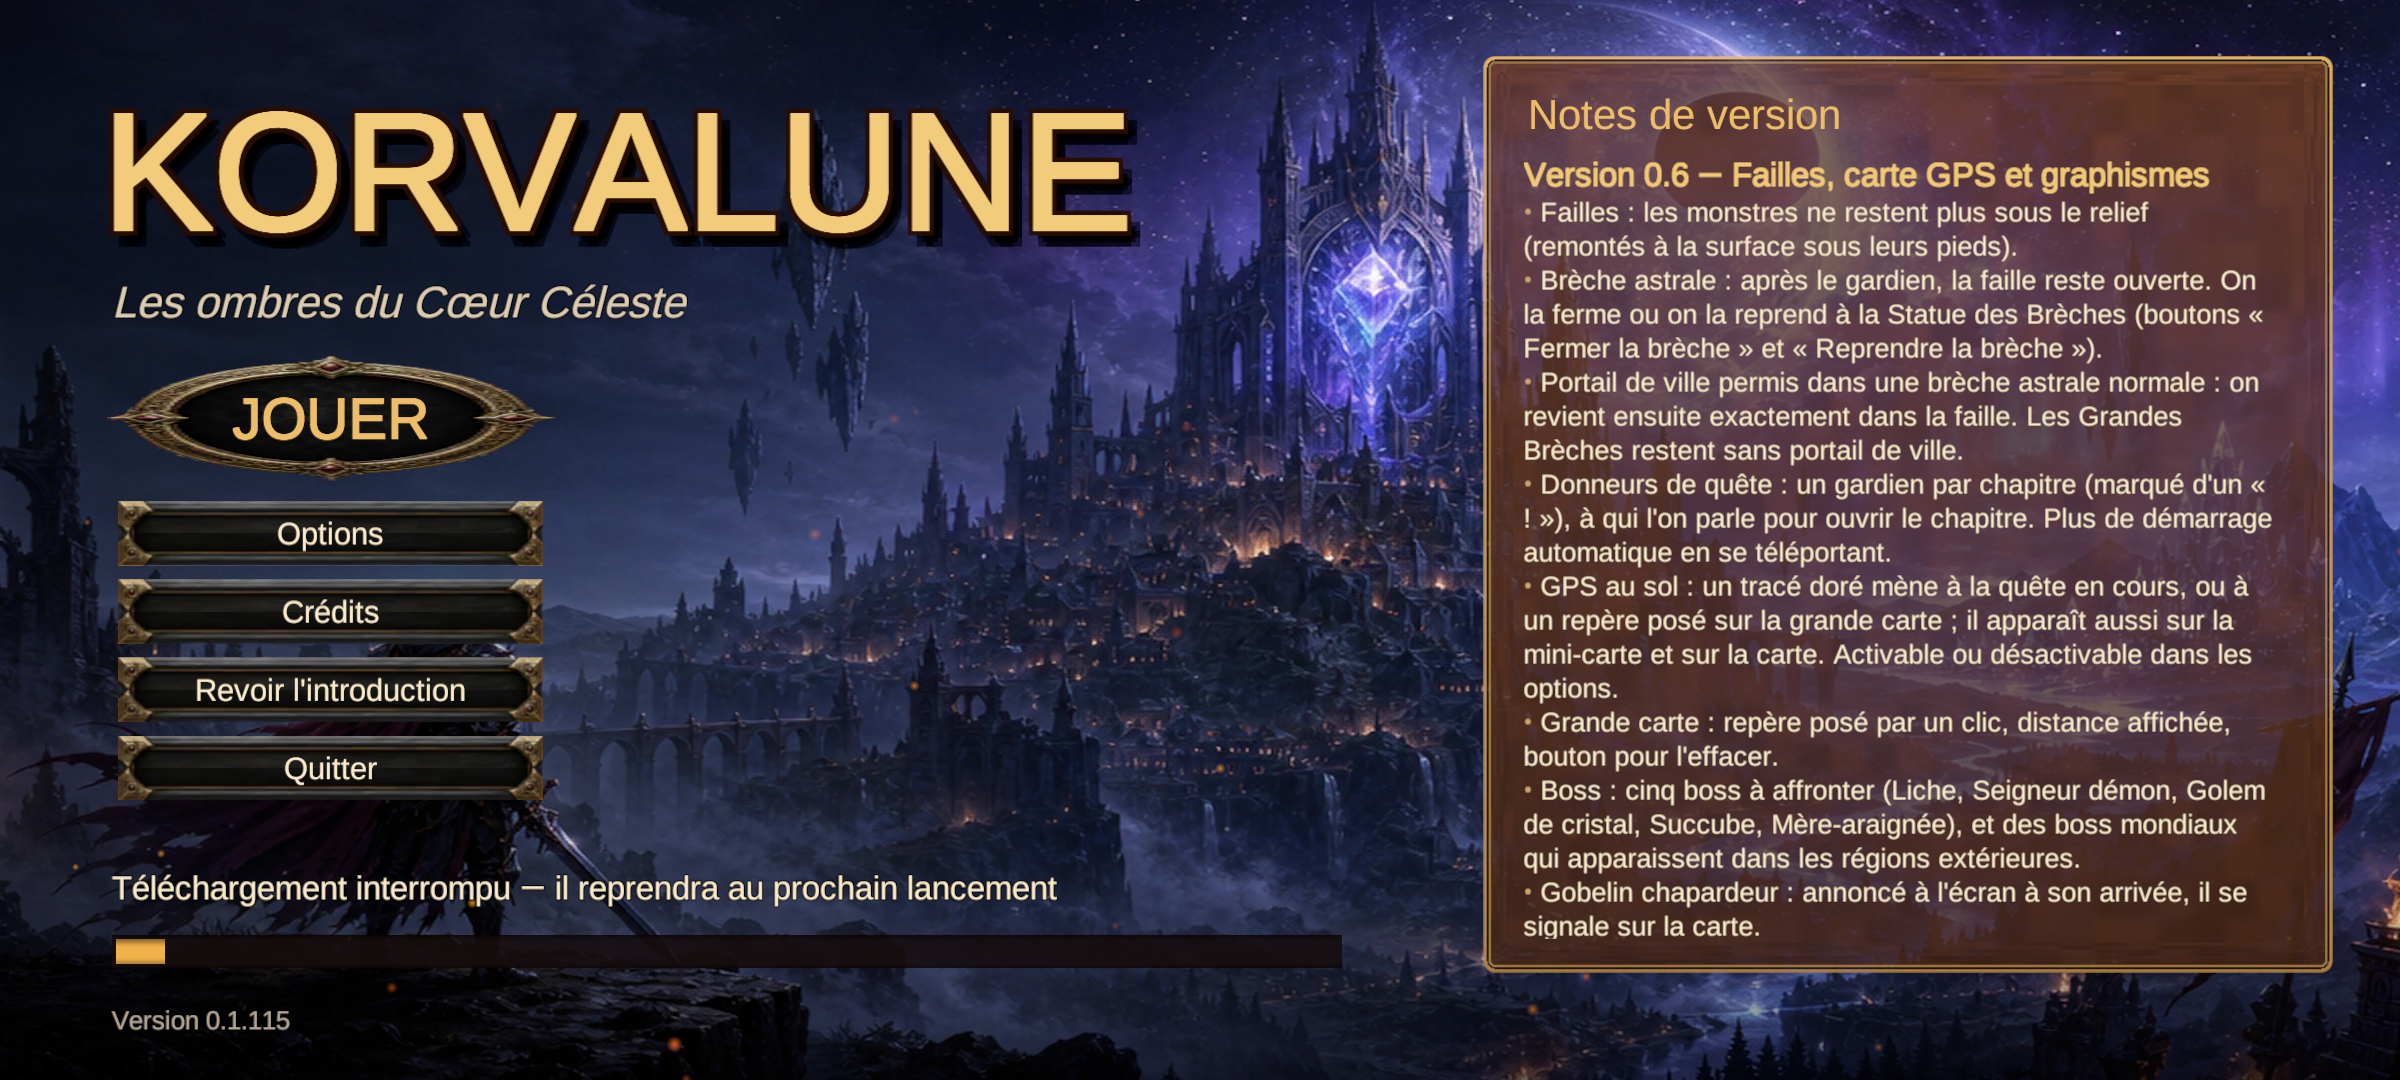
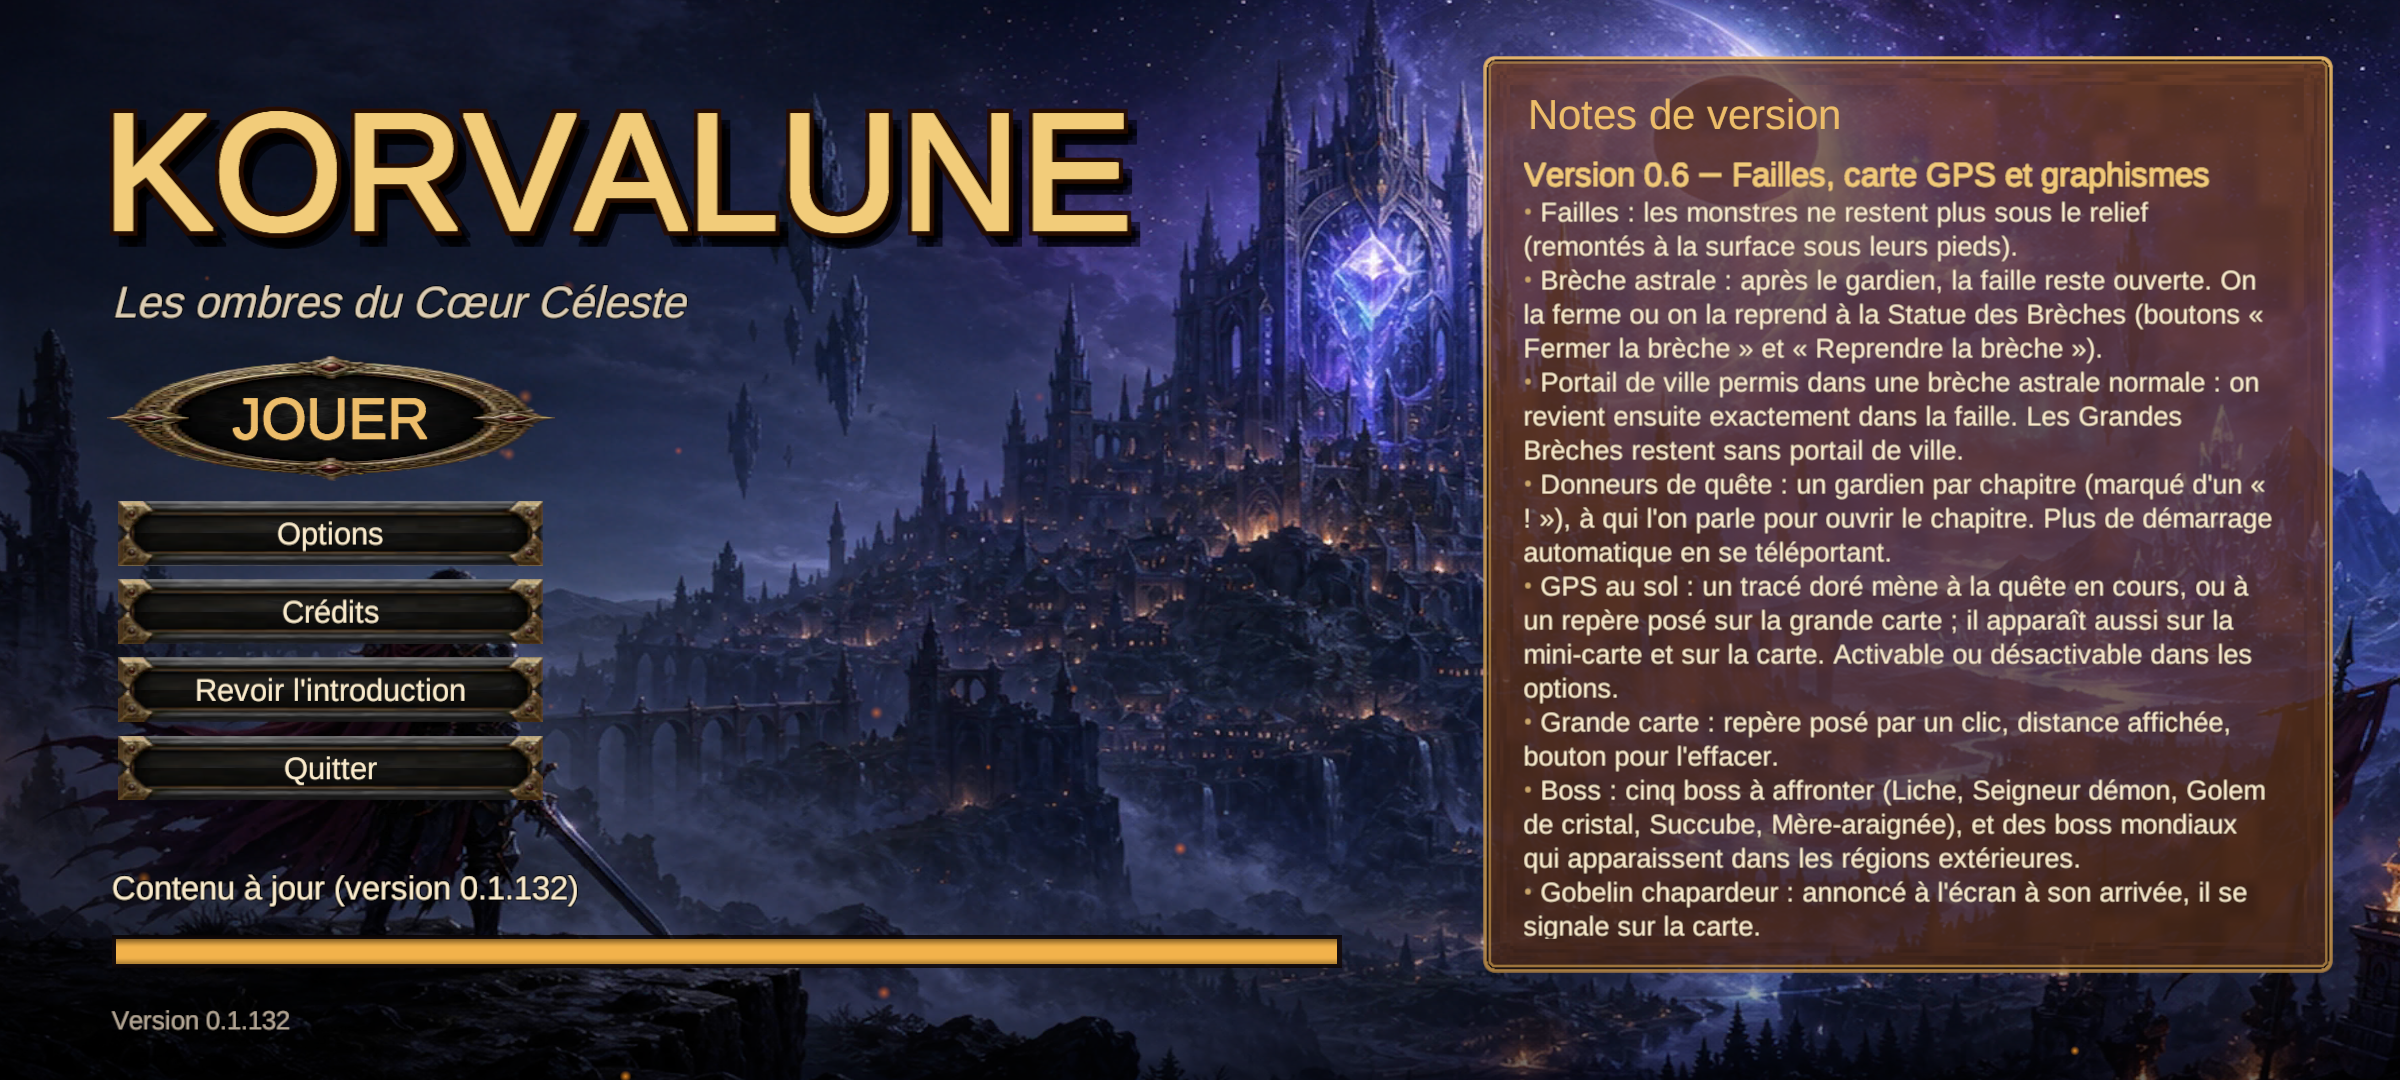
Android : APK construit et testé dans l'émulateur [skip ci]

diff --git a/ci-out/android/build.md b/ci-out/android/build.md
@@ -1,10 +1,10 @@
 # Construction de l'APK Android
 
-- Scènes : Korvalune_Lanceur, Korvalune_Selection, CharacterCreator, Korvalune_Vallee, Korvalune_Crypte, Korvalune_Terriers, Korvalune_Eclipse, Korvalune_Breche, Korvalune_Foret, Korvalune_Desert, Korvalune_Pics, Korvalune_Cote, Korvalune_Marais, Korvalune_Toundra, Korvalune_Volcan, Korvalune_Canyon, Korvalune_Abime
+- Scènes : Korvalune_Lanceur, Korvalune_Selection, CharacterCreator, Korvalune_Vallee, Korvalune_Crypte, Korvalune_Terriers, Korvalune_Eclipse, Korvalune_Breche, Korvalune_Foret, Korvalune_Desert, Korvalune_Pics, Korvalune_Cote, Korvalune_Marais, Korvalune_Toundra, Korvalune_Volcan, Korvalune_Canyon, Korvalune_Abime, Korvalune_Catacombes
 - Signature : clé Korvalune (mises à jour sans désinstaller)
 - Icône : Assets/Korvalune/Resources/UI/Icone.png
-- Contenu téléchargeable : 100 paquets, 722 Mo (release contenu-115)
-    - scenes : 146.4 Mo
+- Contenu téléchargeable : 100 paquets, 732 Mo (release contenu-132)
+    - scenes : 156.0 Mo
     - art_catalog_models : 58.3 Mo
     - art_catalog_skins : 34.6 Mo
     - art_heroes_varek_f : 19.0 Mo
@@ -16,23 +16,23 @@
     - art_heroes_kaeldraven_f : 17.2 Mo
     - art_heroes_kaeldraven_m : 16.7 Mo
     - art_heroes_tharion_f : 16.7 Mo
-- HybridCLR : génération en 1.7 min
-- Code mis à jour depuis le jeu : Korvalune.Runtime 672 Ko + 7 métadonnées (9.0 Mo), APK minimal 0
-- Résultat : **Succeeded** en 20.2 min, 0 erreur(s), 12 avertissement(s)
-- APK : 129.1 Mo, version 0.1.115
+- HybridCLR : génération en 2.1 min
+- Code mis à jour depuis le jeu : Korvalune.Runtime 677 Ko + 7 métadonnées (9.0 Mo), APK minimal 0
+- Résultat : **Succeeded** en 26.0 min, 0 erreur(s), 12 avertissement(s)
+- APK : 129.4 Mo, version 0.1.132
 
 ## Contenu empaqueté : 35 Mo
-- Texture2D : 23.0 Mo (295)
+- Texture2D : 23.5 Mo (296)
 - AudioClip : 8.4 Mo (174)
 - Cubemap : 1.6 Mo (13)
 - Shader : 1.3 Mo (34)
 - Sprite : 0.1 Mo (210)
-- MonoScript : 0.1 Mo (916)
+- MonoScript : 0.1 Mo (917)
 - Font : 0.1 Mo (1)
 - MonoBehaviour : 0.1 Mo (434)
 - RectTransform : 0.0 Mo (348)
 - GameObject : 0.0 Mo (348)
-- TextAsset : 0.0 Mo (14)
+- TextAsset : 0.0 Mo (15)
 - ComputeShader : 0.0 Mo (1)
 
 ### Plus gros fichiers sources
@@ -42,6 +42,7 @@
 - 1.0 Mo — Assets/Korvalune/Resources/UI/Lanceur_Fond.png
 - 0.7 Mo — Packages/com.unity.render-pipelines.universal/Shaders/PostProcessing/UberPost.shader
 - 0.5 Mo — Resources/unity_builtin_extra
+- 0.5 Mo — Assets/Korvalune/Resources/UI/Cartes/Korvalune_Catacombes.png
 - 0.5 Mo — Assets/Korvalune/Resources/UI/Cartes/Korvalune_Eclipse.png
 - 0.5 Mo — Assets/Korvalune/Resources/UI/Cartes/Korvalune_Toundra.png
 - 0.5 Mo — Assets/Korvalune/Resources/UI/Cartes/Korvalune_Pics.png
@@ -65,50 +66,49 @@
 - 0.3 Mo — Packages/com.unity.render-pipelines.universal/Textures/FilmGrain/Medium02.png
 - 0.3 Mo — Packages/com.unity.render-pipelines.universal/Textures/FilmGrain/Large01.png
 - 0.2 Mo — Assets/Korvalune/Resources/UI/Kit/Panneau.png
-- 0.2 Mo — Assets/Korvalune/Resources/UI/Icone_Peinte.png
 
 ## Mémoire pendant la construction (dernières mesures)
 ```
-16:17:41 ram 6313/15983 swap 413/16383  4554668 Unity 431996 Unity.ILPP.Runn 
-16:17:46 ram 6317/15983 swap 413/16383  4554672 Unity 433564 Unity.ILPP.Runn 
-16:17:51 ram 6170/15983 swap 413/16383  4554676 Unity 435388 Unity.ILPP.Runn 
-16:17:56 ram 6271/15983 swap 413/16383  4554676 Unity 436616 Unity.ILPP.Runn 
-16:18:01 ram 6198/15983 swap 413/16383  4554676 Unity 438032 Unity.ILPP.Runn 
-16:18:06 ram 6190/15983 swap 413/16383  4554676 Unity 439064 Unity.ILPP.Runn 
-16:18:11 ram 6287/15983 swap 413/16383  4554676 Unity 439488 Unity.ILPP.Runn 
-16:18:16 ram 6308/15983 swap 413/16383  4554676 Unity 441336 Unity.ILPP.Runn 
-16:18:21 ram 6254/15983 swap 413/16383  4554676 Unity 442496 Unity.ILPP.Runn 
-16:18:26 ram 6433/15983 swap 413/16383  4554676 Unity 792320 ld.lld 
-16:18:31 ram 6781/15983 swap 756/16383  4198456 Unity 2849164 ld.lld 
-16:18:37 ram 5728/15983 swap 1400/16383  3580772 Unity 2130004 ld.lld 
-16:18:42 ram 4879/15983 swap 1957/16383  3036664 Unity 2794492 ld.lld 
-16:18:47 ram 3888/15983 swap 2462/16383  2538068 Unity 418744 Unity.ILPP.Runn 
-16:18:52 ram 4064/15983 swap 2636/16383  2434236 Unity 407596 Unity.ILPP.Runn 
-16:18:58 ram 3961/15983 swap 2663/16383  2434080 Unity 413968 Unity.ILPP.Runn 
-16:19:03 ram 3614/15983 swap 2663/16383  2435860 Unity 417480 Unity.ILPP.Runn 
-16:19:08 ram 3649/15983 swap 2662/16383  2437768 Unity 417480 Unity.ILPP.Runn 
-16:19:13 ram 3796/15983 swap 2662/16383  2437780 Unity 417480 Unity.ILPP.Runn 
-16:19:18 ram 3977/15983 swap 2662/16383  2437784 Unity 417552 Unity.ILPP.Runn 
-16:19:23 ram 4009/15983 swap 2662/16383  2437808 Unity 418864 Unity.ILPP.Runn 
-16:19:28 ram 4059/15983 swap 2662/16383  2437816 Unity 420344 Unity.ILPP.Runn 
-16:19:33 ram 4400/15983 swap 2662/16383  2437832 Unity 718984 java 
-16:19:38 ram 4445/15983 swap 2662/16383  2436356 Unity 625256 java 
-16:19:43 ram 4405/15983 swap 2662/16383  2436364 Unity 701500 java 
-16:19:48 ram 4935/15983 swap 2662/16383  2436376 Unity 1213432 java 
-16:19:53 ram 5593/15983 swap 2662/16383  2436356 Unity 1619572 java 
-16:19:58 ram 5571/15983 swap 2662/16383  2436336 Unity 1788532 java 
-16:20:03 ram 5627/15983 swap 2662/16383  2436272 Unity 1920784 java 
-16:20:08 ram 5709/15983 swap 2662/16383  2436272 Unity 2005280 java 
-16:20:13 ram 5704/15983 swap 2662/16383  2436292 Unity 2027712 java 
-16:20:18 ram 5669/15983 swap 2662/16383  2436096 Unity 2033588 java 
-16:20:23 ram 5708/15983 swap 2662/16383  2435772 Unity 2036536 java 
-16:20:28 ram 5814/15983 swap 2662/16383  2434184 Unity 2046160 java 
-16:20:33 ram 5865/15983 swap 2662/16383  2433688 Unity 2119316 java 
-16:20:38 ram 6010/15983 swap 2662/16383  2433632 Unity 2265932 java 
-16:20:43 ram 5870/15983 swap 2658/16383  2447276 Unity 2235172 java 
-16:20:48 ram 3350/15983 swap 2328/16383  2401800 Unity 129220 provjobd2878789 
-16:20:54 ram 1128/15983 swap 224/16383  131752 provjobd2878789 112528 Unity.Licensing 
-16:20:59 ram 1046/15983 swap 222/16383  131760 provjobd2878789 95660 Runner.Worker 
+07:01:25 ram 7205/15982 swap 300/16383  5565008 Unity 735496 ld.lld 
+07:01:30 ram 7163/15982 swap 300/16383  5565008 Unity 782472 ld.lld 
+07:01:35 ram 7426/15982 swap 300/16383  5565008 Unity 1177204 ld.lld 
+07:01:40 ram 7345/15982 swap 300/16383  5564968 Unity 2990492 ld.lld 
+07:01:45 ram 7183/15982 swap 300/16383  5564968 Unity 329412 llvm-objcopy 
+07:01:50 ram 6773/15982 swap 300/16383  5564984 Unity 314400 Unity.ILPP.Runn 
+07:01:55 ram 6796/15982 swap 300/16383  5564984 Unity 314400 Unity.ILPP.Runn 
+07:02:00 ram 7086/15982 swap 300/16383  5564972 Unity 314400 Unity.ILPP.Runn 
+07:02:05 ram 7183/15982 swap 300/16383  5564972 Unity 375976 java 
+07:02:10 ram 7241/15982 swap 300/16383  5564960 Unity 405732 java 
+07:02:15 ram 7549/15982 swap 300/16383  5564948 Unity 698760 java 
+07:02:20 ram 7404/15982 swap 300/16383  5564948 Unity 556576 java 
+07:02:25 ram 7486/15982 swap 300/16383  5564948 Unity 662128 java 
+07:02:30 ram 8027/15982 swap 300/16383  5564948 Unity 1207064 java 
+07:02:35 ram 8369/15982 swap 301/16383  5564864 Unity 1585288 java 
+07:02:40 ram 8637/15982 swap 301/16383  5564864 Unity 1771024 java 
+07:02:45 ram 8539/15982 swap 400/16383  5528344 Unity 1827656 java 
+07:02:50 ram 8567/15982 swap 513/16383  5444560 Unity 1940440 java 
+07:02:55 ram 8568/15982 swap 529/16383  5419280 Unity 2009284 java 
+07:03:00 ram 8544/15982 swap 631/16383  5324004 Unity 2039796 java 
+07:03:05 ram 8343/15982 swap 975/16383  5091556 Unity 2055728 java 
+07:03:10 ram 8458/15982 swap 975/16383  5091556 Unity 2080568 java 
+07:03:15 ram 7705/15982 swap 1465/16383  4591264 Unity 2086996 java 
+07:03:20 ram 7584/15982 swap 1566/16383  4505520 Unity 2076036 java 
+07:03:25 ram 7336/15982 swap 1822/16383  4243952 Unity 2079376 java 
+07:03:30 ram 6544/15982 swap 2172/16383  3886448 Unity 1545176 java 
+07:03:35 ram 6271/15982 swap 2527/16383  3523468 Unity 1687752 java 
+07:03:40 ram 5904/15982 swap 2888/16383  3154136 Unity 1693316 java 
+07:03:46 ram 5761/15982 swap 3035/16383  3021836 Unity 1693172 java 
+07:03:51 ram 5500/15982 swap 3348/16383  2696936 Unity 1693180 java 
+07:03:56 ram 5456/15982 swap 3618/16383  2420268 Unity 1929700 java 
+07:04:01 ram 5152/15982 swap 3772/16383  2286400 Unity 1902460 java 
+07:04:06 ram 5408/15982 swap 3687/16383  2479044 Unity 1902460 java 
+07:04:11 ram 5649/15982 swap 3448/16383  2722184 Unity 1902464 java 
+07:04:16 ram 5869/15982 swap 3230/16383  2942432 Unity 1902464 java 
+07:04:21 ram 6052/15982 swap 3139/16383  3096956 Unity 1902464 java 
+07:04:26 ram 6250/15982 swap 3139/16383  3306788 Unity 1901752 java 
+07:04:32 ram 4517/15982 swap 3039/16383  3324532 Unity 199524 Unity.ILPP.Runn 
+07:04:37 ram 4354/15982 swap 2786/16383  3283392 Unity 170584 Runner.Worker 
+07:04:42 ram 1195/15982 swap 307/16383  170584 Runner.Worker 129500 provjobd2869925 
 ```
 ## Noyau (OOM)
 ```

diff --git a/ci-out/android/test.md b/ci-out/android/test.md
@@ -1,7 +1,7 @@
 # Test de l'APK dans un émulateur Android (API 30, x86_64)
 
 - Android 11
-- APK : 129.1 Mo
+- APK : 129.4 Mo
 - ✅ Installation
 - ✅ Jeu en cours d'exécution à 20 s (capture ecran_20s.png)
 - ✅ Jeu en cours d'exécution à 45 s (capture ecran_45s.png)
@@ -12,12 +12,26 @@
 - Activité : com.korvalune.game/com.unity3d.player.UnityPlayerGameActivity
     [Korvalune] partie automatique : activée
     [Korvalune][test] lanceur prêt : on joue
-    [Korvalune][test] chargement de la scène « Korvalune_Selection » avec Testeur
-    [Korvalune][test] ÉCHEC : scène introuvable
+    [Korvalune][test] chargement de la scène « Korvalune_Vallee » avec Testeur
+    [Korvalune][test] chargement 90 %
+    [Korvalune][test] chargement 90 %
+    [Korvalune][test] chargement 90 %
+    [Korvalune][test] chargement 90 %
+    [Korvalune][test] chargement 90 %
+    [Korvalune][test] chargement 90 %
+    [Korvalune][test] chargement 90 %
+    [Korvalune][test] chargement 90 %
+    [Korvalune][test] chargement 90 %
+    [Korvalune][test] chargement 90 %
+    [Korvalune][test] chargement 90 %
+    [Korvalune][test] chargement 90 %
+    [Korvalune][test] chargement 90 %
+    [Korvalune][test] chargement 90 %
+    [Korvalune][test] chargement 90 %
+    [Korvalune][test] chargement 90 %
+    [Korvalune][test] chargement 90 %
 - ⚠ Partie automatique inachevée (voir partie.txt)
 - ✅ Aucun plantage dans le journal
-- Erreurs Unity dans le journal : 2
-    11-08 16:28:03.346  6164  6185 E Unity   : Scene 'Korvalune_Selection' couldn't be loaded because it has not been added to the active build profile or shared scene list or the AssetBundle has not been loaded.
-    11-08 16:28:03.346  6164  6185 E Unity   : To add a scene to the active build profile or shared scene list use the menu File->Build Profiles
+- Erreurs Unity dans le journal : 0
 
 **RÉSULTAT : OK**
